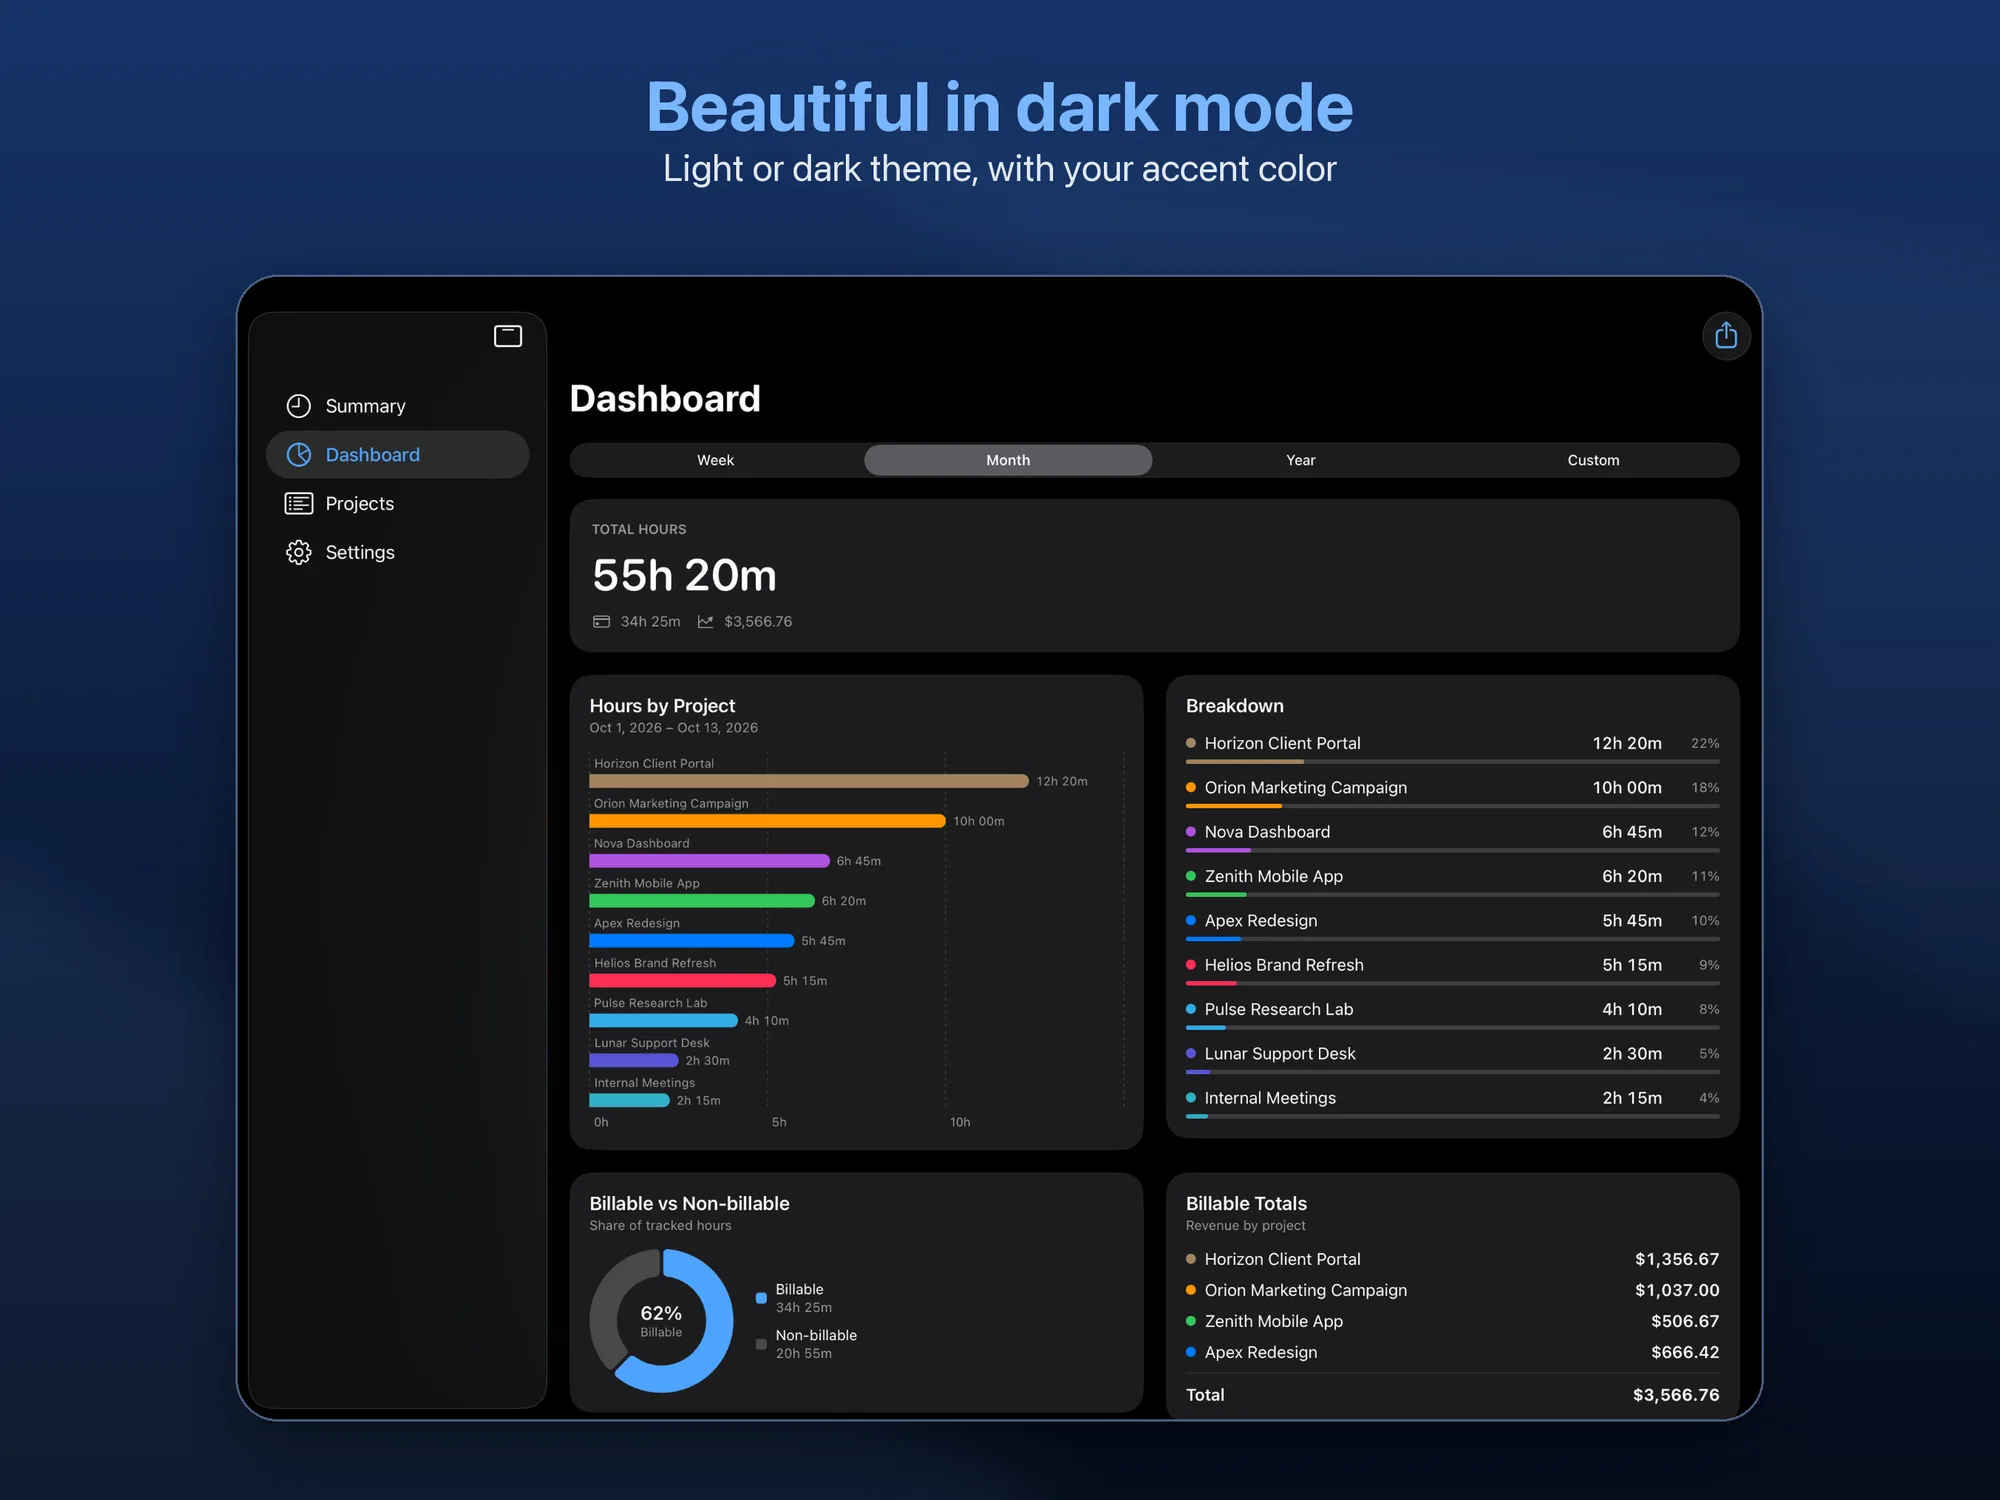
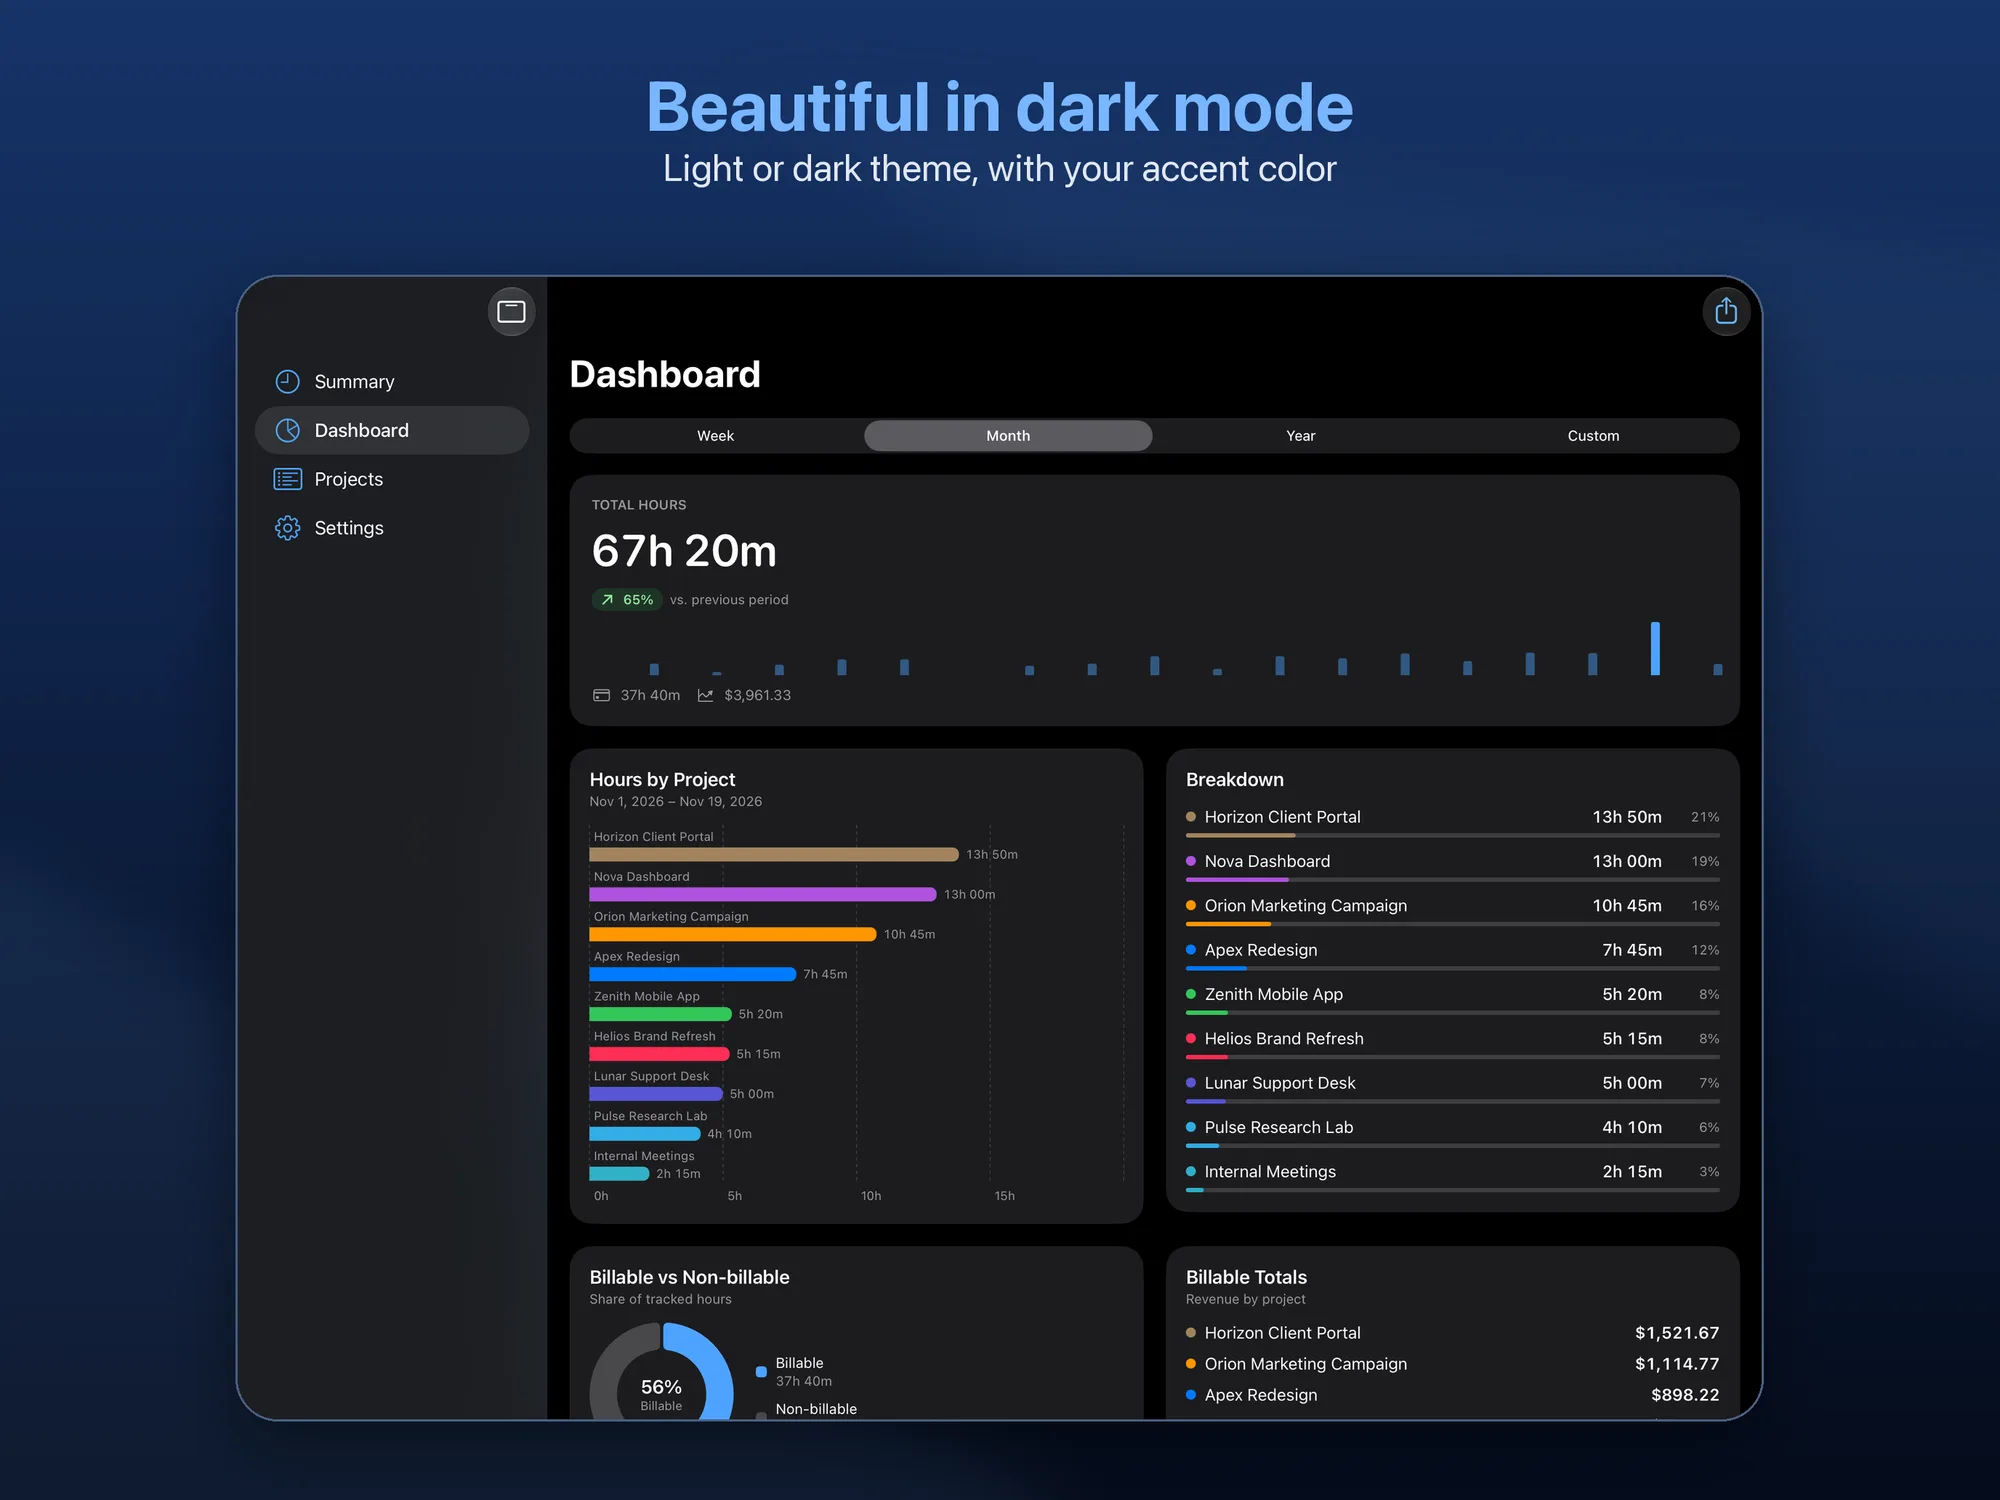
feat(time-tracker): pagina, documentazione e screenshot per la 1.3.0 su iOS
Anello del ciclo e Annulla nel Pomodoro, Riprendi e Duplica su oggi,
ricerca filtrata per progetto, calendario attività con filtro per giorno,
confronto con il periodo precedente e andamento nella Dashboard, segnati
come solo iOS. Nuovi screenshot iPhone e iPad, nuova icona e didascalie
aggiornate.

Changed region(s): [[0.093, 0.2147, 0.868, 0.9507], [0.124, 0.184, 0.279, 0.2453], [0.837, 0.184, 0.899, 0.2453]]

diff --git a/src/data/docs/time-tracker/timer-pomodoro-e-attivita.md b/src/data/docs/time-tracker/timer-pomodoro-e-attivita.md
@@ -14,6 +14,8 @@ Il pannello **Pomodoro** di Time Tracker è un cronometro per le sessioni di lav
 - **Avvio, pausa e stop**: avvia il cronometro, mettilo in pausa quando serve e fermalo a fine sessione.
 - **Ancorato all'orologio di sistema**: il tempo trascorso non dipende da un conteggio in memoria ma dall'istante di avvio salvato, quindi resta corretto anche se l'app viene sospesa o chiusa.
 - **Salvataggio come attività**: quando fermi il timer, la sessione viene registrata come attività del progetto scelto, con il nome dell'attività come titolo. Le sessioni sotto il minuto non vengono salvate.
+- **Anello del ciclo** (iOS): un anello nel colore del progetto si riempie verso la fine di ogni ciclo da 25 minuti, e sotto il tempo compare il ciclo in corso con quanto manca (es. *Pomodoro 1 · mancano 06:31*). Il timer resta un cronometro: registra tutto il tempo trascorso, i cicli servono solo da traguardo.
+- **Annulla** (iOS): dopo lo stop il pannello mostra *Salvata in* e il nome del progetto, con il pulsante **Annulla**, che elimina l'attività appena salvata.
 
 ---
 
@@ -34,7 +36,25 @@ Per le ore registrate a posteriori apri l'editor dell'attività e indica:
 - **titolo**, **progetto** e **note**;
 - la **data** e l'**orario di inizio e fine**, oppure attiva il **totale giornaliero** e scrivi direttamente la durata.
 
+Su iOS la nuova attività parte dal progetto dell'ultima attività registrata, se è ancora attivo; altrimenti dal primo progetto attivo.
+
 Su Android, in cima al riepilogo c'è anche un'**aggiunta rapida** con solo titolo e progetto.
+
+---
+
+## Riprendere e duplicare un'attività (iOS)
+
+Nell'elenco **Attività**:
+- scorrendo una riga verso destra compaiono **Riprendi** e **Modifica**; con uno scorrimento completo parte subito **Riprendi**, che avvia il timer con titolo e progetto dell'attività e apre il pannello Pomodoro. Se un timer è già in corso, Riprendi non c'è;
+- tenendo premuta una riga si apre un menu con **Modifica**, **Riprendi**, **Duplica su oggi** ed **Elimina**. *Duplica su oggi* crea una copia con lo stesso orario e la stessa durata sulla data di oggi;
+- scorrendo verso sinistra c'è **Elimina**.
+
+---
+
+## Ricerca e calendario attività (iOS)
+
+- **Ricerca**: il campo *Cerca tra le voci* cerca il testo in titolo, note e nome del progetto. Mentre cerchi, l'app propone i progetti attivi come filtri: sceglierne uno o più mostra solo le loro attività.
+- **Calendario attività**: in cima all'elenco, un anno di lavoro in una griglia con un quadrato per giorno, più scuro quando le ore sono di più. Toccando un giorno compaiono la data, le ore e il numero di attività; **Mostra** lascia nell'elenco solo quel giorno, e **Mostra tutti i giorni** toglie il filtro.
 
 ---
 

diff --git a/src/data/en/docs/time-tracker/pomodoro-timer-and-activities.md b/src/data/en/docs/time-tracker/pomodoro-timer-and-activities.md
@@ -14,6 +14,8 @@ Time Tracker's **Pomodoro** panel is a stopwatch for focused work sessions:
 - **Start, pause and stop**: start the stopwatch, pause it when needed and stop it when the session ends.
 - **Anchored to the system clock**: elapsed time doesn't depend on an in-memory count but on the saved start time, so it stays correct even if the app is suspended or closed.
 - **Saved as an activity**: when you stop the timer, the session is logged as an activity on the chosen project, with the activity name as its title. Sessions shorter than a minute aren't saved.
+- **Cycle ring** (iOS): a ring in the project's color fills up toward the end of each 25-minute cycle, and below the time you see the current cycle and how long is left (e.g. *Pomodoro 1 · 06:31 left*). The timer is still a stopwatch: it logs all the elapsed time, and the cycles are only a goal to aim for.
+- **Undo** (iOS): after you stop, the panel shows *Saved to* and the project name, with an **Undo** button that deletes the activity that was just saved.
 
 ---
 
@@ -34,7 +36,25 @@ For hours logged after the fact, open the activity editor and enter:
 - **title**, **project** and **notes**;
 - the **date** and the **start and end time**, or turn on **daily total** and type the duration directly.
 
+On iOS a new activity starts on the project of the last activity you logged, if it's still active; otherwise on the first active project.
+
 On Android there's also a **quick add** at the top of the summary, with just title and project.
+
+---
+
+## Resuming and Duplicating an Activity (iOS)
+
+In the **Time Entries** list:
+- swiping a row to the right shows **Resume** and **Edit**; a full swipe triggers **Resume**, which starts the timer with the activity's title and project and opens the Pomodoro panel. If a timer is already running, Resume isn't offered;
+- touching and holding a row opens a menu with **Edit**, **Resume**, **Duplicate to Today** and **Delete**. *Duplicate to Today* creates a copy with the same time of day and duration on today's date;
+- swiping to the left shows **Delete**.
+
+---
+
+## Search and Activity Calendar (iOS)
+
+- **Search**: the *Search entries* field looks for the text in the title, notes and project name. While you search, the app suggests active projects as filters: picking one or more shows only their activities.
+- **Activity calendar**: at the top of the list, a year of work in a grid with one square per day, darker when there are more hours. Tapping a day shows the date, the hours and the number of activities; **Show** keeps only that day in the list, and **Show all days** removes the filter.
 
 ---
 

diff --git a/src/data/projects/time-tracker.md b/src/data/projects/time-tracker.md
@@ -23,9 +23,10 @@ Time Tracker nasce per chi ha bisogno di sapere esattamente dove va il proprio t
 
 - **Attività in pochi secondi** — con orario di inizio e fine oppure come totale giornaliero, con i titoli già usati proposti come suggerimenti
 - **Progetti** — colore, note, date di inizio e fine, tariffa oraria e IVA; i progetti conclusi si archiviano
-- **Timer di concentrazione** — un cronometro ancorato all'orologio di sistema, sempre visibile in una barra dentro l'app e, fuori, nella Dynamic Island (iOS) o in una notifica con Pausa, Riprendi e Stop (Android); fermandolo, la sessione diventa un'attività
-- **Riepilogo** — attività raggruppate per giorno, con ricerca su titolo, note e progetto
-- **Dashboard** — ore per settimana, mese, anno o un intervallo a scelta, ore per progetto, quota fatturabile e ricavi
+- **Timer Pomodoro** — un cronometro ancorato all'orologio di sistema, sempre visibile in una barra dentro l'app e, fuori, nella Dynamic Island (iOS) o in una notifica con Pausa, Riprendi e Stop (Android); fermandolo, la sessione diventa un'attività. Su iOS un anello nel colore del progetto si riempie verso la fine di ogni ciclo da 25 minuti, e la sessione appena salvata si può annullare
+- **Riepilogo** — attività raggruppate per giorno, con ricerca su titolo, note e progetto. Su iOS la ricerca filtra anche per uno o più progetti, uno scorrimento su un'attività la riprende con il timer, **Duplica su oggi** la copia sulla data di oggi e le nuove attività partono dall'ultimo progetto usato
+- **Calendario attività** (solo iOS) — un anno di lavoro in una griglia; tocchi un giorno per vederne le ore e mostrare solo quel giorno nell'elenco
+- **Dashboard** — ore per settimana, mese, anno o un intervallo a scelta, ore per progetto, quota fatturabile e ricavi; su iOS anche il confronto con il periodo precedente e il grafico dell'andamento
 - **Report PDF e CSV** — da inviare ai clienti o da aprire in un foglio di calcolo
 - **Backup JSON** — esporta e importa i dati quando vuoi, anche tra iPhone e Android; su iOS c'è anche la sincronizzazione iCloud facoltativa
 - **A modo tuo** — tema chiaro, scuro o di sistema, colore d'accento a scelta, sette lingue

diff --git a/src/data/en/projects/time-tracker.md b/src/data/en/projects/time-tracker.md
@@ -23,9 +23,10 @@ Time Tracker is for anyone who needs to know exactly where their time goes, and 
 
 - **Activities in seconds** — with a start and end time or as a daily total, with titles you've used before offered as suggestions
 - **Projects** — color, notes, start and end dates, hourly rate and VAT; finished projects can be archived
-- **Focus timer** — a stopwatch anchored to the system clock, always visible in a bar inside the app and, outside it, in the Dynamic Island (iOS) or a notification with Pause, Resume and Stop (Android); when you stop it, the session becomes an activity
-- **Summary** — activities grouped by day, with search across title, notes and project
-- **Dashboard** — hours by week, month, year or a custom range, hours per project, billable share and revenue
+- **Pomodoro timer** — a stopwatch anchored to the system clock, always visible in a bar inside the app and, outside it, in the Dynamic Island (iOS) or a notification with Pause, Resume and Stop (Android); when you stop it, the session becomes an activity. On iOS a ring in the project's color fills up toward the end of each 25-minute cycle, and you can undo a session right after it's saved
+- **Summary** — activities grouped by day, with search across title, notes and project. On iOS search also filters by one or more projects, a swipe on an activity resumes it with the timer, **Duplicate to Today** copies it to today's date, and new activities start on the last project you used
+- **Activity calendar** (iOS only) — a year of work in one grid; tap a day to see its hours and show only that day in the list
+- **Dashboard** — hours by week, month, year or a custom range, hours per project, billable share and revenue; on iOS also a comparison with the previous period and a trend chart
 - **PDF and CSV reports** — to send to clients or open in a spreadsheet
 - **JSON backup** — export and import your data whenever you like, even between iPhone and Android; on iOS there's also optional iCloud sync
 - **Your way** — light, dark or system theme, a choice of accent color, seven languages

diff --git a/src/data/docs/time-tracker/confronto-ios-android.md b/src/data/docs/time-tracker/confronto-ios-android.md
@@ -8,7 +8,7 @@ section: "Piattaforme"
 
 ## Due versioni native
 
-Le due versioni di Time Tracker hanno le stesse funzioni, lo stesso calcolo di ore, tariffe e IVA e lo stesso formato di backup. Ciascuna però segue da vicino le convenzioni della propria piattaforma.
+Le due versioni di Time Tracker hanno lo stesso calcolo di ore, tariffe e IVA e lo stesso formato di backup, e ciascuna segue da vicino le convenzioni della propria piattaforma. Le funzioni arrivate su iOS con la versione 1.3.0 (anello del Pomodoro, Riprendi e Duplica su oggi, calendario attività, confronto e andamento nella Dashboard) per ora non sono su Android.
 
 ---
 
@@ -26,6 +26,11 @@ Le due versioni di Time Tracker hanno le stesse funzioni, lo stesso calcolo di o
 | **Sincronizzazione** | iCloud (CloudKit, database privato) | Nessuna, solo backup su file |
 | **Schermi grandi** | Barra laterale comprimibile su iPad (`.sidebarAdaptable`) | Barra laterale (*navigation rail*) e riquadri affiancati |
 | **Formato di backup** | JSON comune | JSON comune |
+| **Anello del ciclo e Annulla nel Pomodoro** | Sì | No |
+| **Riprendi e Duplica su oggi** | Sì | No |
+| **Ricerca filtrata per progetto** | Sì | No |
+| **Calendario attività con filtro per giorno** | Sì | No |
+| **Confronto con il periodo precedente e andamento** | Sì | No |
 
 ---
 

diff --git a/src/data/en/docs/time-tracker/ios-vs-android-comparison.md b/src/data/en/docs/time-tracker/ios-vs-android-comparison.md
@@ -8,7 +8,7 @@ section: "Platforms"
 
 ## Two Native Versions
 
-Both versions of Time Tracker have the same features, the same hours, rate and VAT calculations and the same backup format. Each, however, closely follows its own platform's conventions.
+Both versions of Time Tracker have the same hours, rate and VAT calculations and the same backup format, and each closely follows its own platform's conventions. The features that came to iOS with version 1.3.0 (the Pomodoro ring, Resume and Duplicate to Today, the activity calendar, the comparison and trend in the Dashboard) aren't on Android yet.
 
 ---
 
@@ -26,6 +26,11 @@ Both versions of Time Tracker have the same features, the same hours, rate and V
 | **Sync** | iCloud (CloudKit, private database) | None, file backups only |
 | **Large screens** | Collapsible sidebar on iPad (`.sidebarAdaptable`) | Navigation rail and side-by-side panes |
 | **Backup format** | Shared JSON | Shared JSON |
+| **Pomodoro cycle ring and Undo** | Yes | No |
+| **Resume and Duplicate to Today** | Yes | No |
+| **Search filtered by project** | Yes | No |
+| **Activity calendar with day filter** | Yes | No |
+| **Comparison with the previous period and trend** | Yes | No |
 
 ---
 

diff --git a/src/data/docs/time-tracker/dashboard-fatturazione-ed-export.md b/src/data/docs/time-tracker/dashboard-fatturazione-ed-export.md
@@ -11,6 +11,7 @@ section: "Analisi e Dati"
 La scheda **Dashboard** trasforma le ore registrate in informazioni chiare:
 
 - **Totale in evidenza**: le ore lavorate nel periodo scelto.
+- **Confronto e andamento** (iOS): sotto il totale, la variazione percentuale *rispetto al periodo precedente* (la settimana, il mese o l'anno prima, oppure un intervallo personalizzato della stessa durata subito prima) e un grafico a barre delle ore per giorno, o per mese quando il periodo supera i due mesi. I giorni senza attività restano nel grafico, a zero.
 - **Ore per progetto**: grafici e percentuali che mostrano come si distribuisce il lavoro tra progetti e clienti.
 - **Quota fatturabile**: separa le ore dei progetti con fatturazione attiva da quelle non fatturabili (es. formazione o attività interne).
 - **Ricavi**: per ogni progetto fatturabile, le ore moltiplicate per la tariffa oraria, IVA inclusa.

diff --git a/src/data/en/docs/time-tracker/dashboard-billing-and-exports.md b/src/data/en/docs/time-tracker/dashboard-billing-and-exports.md
@@ -11,6 +11,7 @@ section: "Analytics & Data"
 The **Dashboard** tab turns logged hours into clear information:
 
 - **Headline total**: the hours worked in the chosen period.
+- **Comparison and trend** (iOS): below the total, the percentage change *vs. previous period* (the week, month or year before, or a custom range of the same length right before it) and a bar chart of hours per day, or per month when the period is longer than two months. Days with no activity stay in the chart, at zero.
 - **Hours per project**: charts and percentages showing how work is spread across projects and clients.
 - **Billable share**: separates the hours of projects with billing turned on from non-billable ones (e.g. training or internal work).
 - **Revenue**: for each billable project, hours multiplied by the hourly rate, VAT included.
